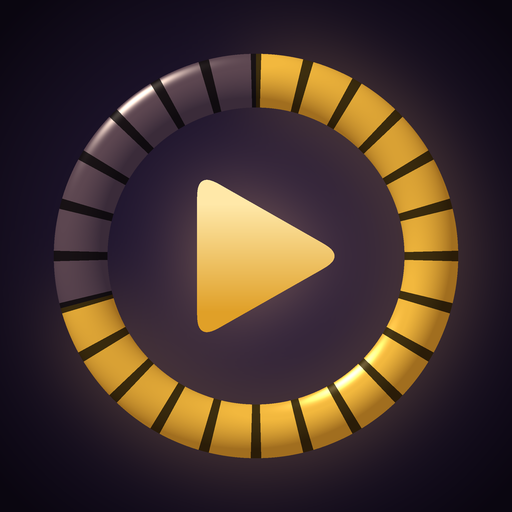
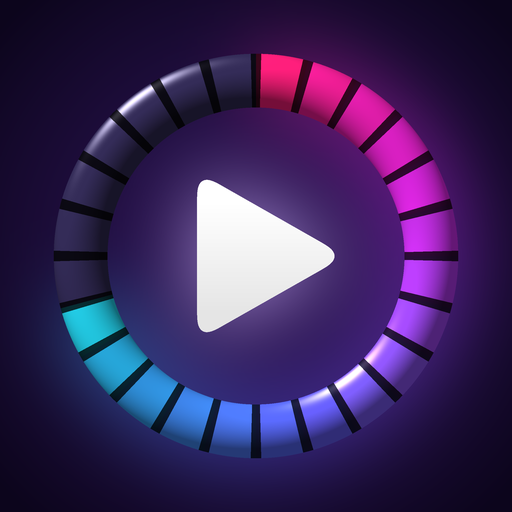
Add files via upload

diff --git a/index.html b/index.html
@@ -8,8 +8,8 @@
 <meta name="apple-mobile-web-app-status-bar-style" content="black-translucent">
 <meta name="apple-mobile-web-app-title" content="Suivi">
 <title>Suivi</title>
[4 lines of base64/hex data omitted]
 <link rel="preconnect" href="https://fonts.googleapis.com">
 <link rel="preconnect" href="https://fonts.gstatic.com" crossorigin>
 <link href="https://fonts.googleapis.com/css2?family=Bricolage+Grotesque:opsz,wght@12..96,600;12..96,800&family=Instrument+Sans:wght@400;500;600&family=IBM+Plex+Mono:wght@400;600&display=swap" rel="stylesheet">
@@ -26,14 +26,21 @@
   --safe-b:env(safe-area-inset-bottom,0px);
   --safe-t:env(safe-area-inset-top,0px);
 }
-*{box-sizing:border-box;margin:0;padding:0;-webkit-tap-highlight-color:transparent}
-html,body{background:var(--nuit);color:var(--ivoire)}
+*{box-sizing:border-box;margin:0;padding:0;-webkit-tap-highlight-color:transparent;min-width:0}
+html,body{
+  background:var(--nuit);color:var(--ivoire);
+  width:100%;max-width:100%;overflow-x:hidden;   /* rien ne dépasse latéralement */
+  overscroll-behavior-x:none;                     /* pas de rebond horizontal */
+  touch-action:manipulation;                      /* coupe le zoom au double-tap, garde le pincement */
+  -webkit-text-size-adjust:100%;                  /* iOS n'agrandit pas le texte tout seul */
+}
 body{
   font-family:"Instrument Sans",system-ui,sans-serif;
   font-size:15px;line-height:1.45;
   padding-bottom:calc(76px + var(--safe-b));
   overscroll-behavior-y:none;
 }
+img,svg{max-width:100%}
 h1,h2,h3{font-family:"Bricolage Grotesque",system-ui,sans-serif;letter-spacing:-.02em;line-height:1.05}
 .mono{font-family:"IBM Plex Mono",monospace}
 button{font:inherit;color:inherit;background:none;border:none;cursor:pointer}
@@ -83,6 +90,9 @@ nav button.on{color:var(--beurre)}
 
 /* ---- cartes Découverte ---- */
 .cartes{display:grid;grid-template-columns:repeat(auto-fill,minmax(104px,1fr));gap:13px}
+.cartes.trois{grid-template-columns:repeat(3,1fr)}
+.tuile .coche{position:absolute;right:6px;bottom:6px;width:29px;height:29px;border-radius:50%;background:var(--beurre);display:grid;place-items:center;box-shadow:0 2px 9px rgba(0,0,0,.55)}
+.tuile .coche svg{width:15px;height:15px;stroke:#2A1D07;fill:none;stroke-width:3.2;stroke-linecap:round;stroke-linejoin:round}
 .tuile{text-align:left;display:flex;flex-direction:column;gap:7px;min-width:0}
 .tuile .aff{position:relative;aspect-ratio:2/3;border-radius:11px;background:var(--nuit-3);background-size:cover;background-position:center;border:1px solid var(--bord);display:grid;place-items:center;font-family:"Bricolage Grotesque";font-weight:800;color:var(--brume);overflow:hidden}
 .tuile .plus{position:absolute;right:6px;bottom:6px;width:28px;height:28px;border-radius:50%;background:var(--beurre);color:#2A1D07;display:grid;place-items:center;font-size:19px;font-family:"Bricolage Grotesque";font-weight:600;box-shadow:0 2px 9px rgba(0,0,0,.5)}
@@ -91,6 +101,14 @@ nav button.on{color:var(--beurre)}
 .tuile .pq{font-family:"IBM Plex Mono",monospace;font-size:10px;color:var(--brume);overflow:hidden;text-overflow:ellipsis;white-space:nowrap}
 .tuile.dedans .aff{opacity:.32}
 .tuile:active .aff{transform:scale(.97)}
+/* ---- accordéon de l'historique ---- */
+.ligne{display:flex;align-items:center;gap:10px;width:100%;padding:13px 14px;text-align:left}
+.ligne.sous{padding:9px 0;border-top:1px solid var(--bord)}
+.chev{stroke:var(--brume);fill:none;stroke-width:2.2;stroke-linecap:round;stroke-linejoin:round;transition:transform .18s ease}
+.chev.on{transform:rotate(90deg);stroke:var(--beurre)}
+@media (prefers-reduced-motion:reduce){.chev{transition:none}}
+.chip{font-size:12.5px;font-weight:600;padding:7px 14px;border-radius:999px;border:1px solid var(--bord);color:var(--brume)}
+.chip.on{background:var(--nuit-3);color:var(--beurre);border-color:var(--beurre)}
 .pill{display:inline-block;font-size:11px;font-weight:600;letter-spacing:.06em;text-transform:uppercase;padding:3px 8px;border-radius:999px;border:1px solid var(--bord);color:var(--brume)}
 .bar{height:3px;background:var(--nuit-3);border-radius:999px;overflow:hidden}
 .bar i{display:block;height:100%;background:var(--beurre);border-radius:999px}
@@ -139,7 +157,10 @@ const CLE = "suivi:v1";
 let D = { series: [], films: [], tmdb: "" };
 let page = "series";
 let histOnglet = "series";
+let histSerieOuv = new Set();   // séries dépliées dans l'historique
+let histSaisonOuv = new Set();  // saisons dépliées, clé "idSerie:n"
 let decOnglet = "sorties";
+let decFiltre = "tout";   // tout | series | films
 let decCache = { sorties:null, pourtoi:null };
 let ouvert = null;
 
@@ -228,16 +249,28 @@ const versTuile = (r,type) => ({
 });
 
 async function sorties(){
-  const [f,s] = await Promise.all([
-    tmdb("/movie/now_playing",{page:"1"}).catch(()=>({results:[]})),
-    tmdb("/tv/on_the_air",{page:"1"}).catch(()=>({results:[]})),
-  ]);
-  const films = (f.results||[]).map(r=>versTuile(r,"films"));
-  const series = (s.results||[]).map(r=>versTuile(r,"series"));
-  // alterner films et séries pour que les deux soient visibles d'emblée
-  const out=[]; const n=Math.max(films.length,series.length);
-  for(let i=0;i<n;i++){ if(series[i]) out.push(series[i]); if(films[i]) out.push(films[i]); }
-  return out.slice(0,24);
+  const paquets = { series:[], films:[] };
+  const deja = new Set();
+  // on pagine jusqu'à avoir de quoi remplir la grille une fois retiré ce qu'elle suit déjà
+  for(let p=1; p<=3; p++){
+    const [f,s] = await Promise.all([
+      tmdb("/movie/now_playing",{page:String(p)}).catch(()=>({results:[]})),
+      tmdb("/tv/on_the_air",{page:String(p)}).catch(()=>({results:[]})),
+    ]);
+    for(const [d,type] of [[s,"series"],[f,"films"]]){
+      for(const r of (d.results||[])){
+        const t = versTuile(r,type);
+        const k = type+":"+t.tmdbId;
+        if(deja.has(k)) continue;
+        deja.add(k);
+        if(dansMaListe(t.tmdbId,type)) continue;   // déjà dans sa liste : la place va à un autre
+        paquets[type].push(t);
+      }
+    }
+    if(paquets.series.length>=26 && paquets.films.length>=26) break;
+    if(!(f.results||[]).length && !(s.results||[]).length) break;
+  }
+  return paquets;
 }
 
 async function pourToi(){
@@ -331,29 +364,61 @@ function vueSeries(){
 function vueFilms(){
   const a = D.films.filter(f=>!f.vuLe);
   if(!a.length) return vide("Aucun film à voir","Ajoute un film avec le bouton +. Une fois vu, il part dans l'historique.");
-  return a.map(f=>`<div class="card" style="margin-bottom:12px;padding:14px">
-    <div class="row" style="align-items:center">
-      <div class="poster" style="${f.poster?`background-image:url(${img(f.poster)})`:""};min-height:88px">${f.poster?"":esc(init(f.titre))}</div>
+  return `<div class="cartes trois">${a.map(f=>`
+    <div class="tuile" data-filmfiche="${f.id}">
+      <div class="aff" style="${f.poster?`background-image:url(${img(f.poster)})`:""}">
+        ${f.poster?"":esc(init(f.titre))}
+        <button class="coche" data-filmvu="${f.id}" aria-label="Marquer ${esc(f.titre)} comme vu">
+          <svg viewBox="0 0 24 24"><path d="M4 12.5 9.5 18 20 6.5"/></svg>
+        </button>
+      </div>
+      <div>
+        <div class="nom">${esc(f.titre)}</div>
+        <div class="pq">${f.annee||"—"}${f.duree?" · "+f.duree+" min":""}</div>
+      </div>
+    </div>`).join("")}</div>`;
+}
+
+function ficheFilm(id){
+  const f = D.films.find(x=>x.id===id); if(!f) return;
+  feuille(`
+    <div class="poignee"></div>
+    <div class="row" style="margin-bottom:20px">
+      <div class="poster wide" style="${f.poster?`background-image:url(${img(f.poster)})`:""};min-height:112px">${f.poster?"":esc(init(f.titre))}</div>
       <div style="flex:1;min-width:0">
-        <div style="font-weight:600;font-size:16.5px">${esc(f.titre)}</div>
-        <div class="mono" style="font-size:12px;color:var(--brume);margin-top:4px">${f.annee||"—"}${f.duree?" · "+f.duree+" min":""}</div>
-        <div style="display:flex;gap:8px;margin-top:11px">
-          <button class="btn" style="padding:7px 14px;font-size:13.5px" data-filmvu="${f.id}">Vu</button>
-          <button class="btn ghost" style="padding:7px 12px;font-size:13.5px" data-filmsup="${f.id}">Retirer</button>
-        </div>
+        <h2 style="font-size:21px">${esc(f.titre)}</h2>
+        <div class="mono" style="font-size:12px;color:var(--brume);margin-top:6px">${f.annee||"—"}${f.duree?" · "+f.duree+" min":""}</div>
       </div>
     </div>
-  </div>`).join("");
+    <button class="btn" style="width:100%" data-filmvu="${f.id}">Marquer comme vu</button>
+    <button class="btn danger" style="width:100%;margin-top:9px" data-filmsup="${f.id}">Retirer de la liste</button>
+  `);
 }
 
 /* ---- page Découverte ---- */
 function vueDecouv(){
   if(!aCle()) return vide("Découverte a besoin d'une clé TMDB","Les sorties et les suggestions viennent de TMDB. Ajoute une clé dans Réglages — c'est gratuit et ça prend cinq minutes.");
-  return `<div style="display:flex;gap:8px;margin-bottom:18px">
+  const chips = [["tout","Tout"],["series","Séries"],["films","Films"]];
+  return `<div style="display:flex;gap:8px;margin-bottom:11px">
     <button class="btn ${decOnglet==="sorties"?"":"ghost"}" style="flex:1;padding:9px" data-dec="sorties">Sorties</button>
     <button class="btn ${decOnglet==="pourtoi"?"":"ghost"}" style="flex:1;padding:9px" data-dec="pourtoi">Pour toi</button>
   </div>
+  <div style="display:flex;gap:7px;margin-bottom:17px">
+    ${chips.map(([id,lab])=>`<button class="chip ${decFiltre===id?"on":""}" data-decf="${id}">${lab}</button>`).join("")}
+  </div>
   <div id="decRes"></div>`;
+}
+
+// le filtre trie ce qui est déjà en cache : changer de filtre ne relance aucun appel
+function filtrer(d, ong){
+  if(ong==="sorties"){
+    if(decFiltre==="series") return d.series.slice(0,24);
+    if(decFiltre==="films")  return d.films.slice(0,24);
+    const out=[], n=Math.max(d.series.length, d.films.length);
+    for(let i=0;i<n;i++){ if(d.series[i]) out.push(d.series[i]); if(d.films[i]) out.push(d.films[i]); }
+    return out.slice(0,24);
+  }
+  return d.items.filter(x=>decFiltre==="tout"||x.type===decFiltre).slice(0,24);
 }
 
 async function chargerDecouv(){
@@ -362,7 +427,7 @@ async function chargerDecouv(){
   if(decCache[ong]){ peindreDecouv(decCache[ong], ong); return; }
   box.innerHTML = '<div style="padding:40px;text-align:center"><span class="spin"></span></div>';
   try{
-    const d = ong==="sorties" ? { items: await sorties() } : await pourToi();
+    const d = ong==="sorties" ? await sorties() : await pourToi();
     decCache[ong] = d;
     if(page==="decouv" && decOnglet===ong) peindreDecouv(d, ong);
   }catch(e){
@@ -375,15 +440,21 @@ function peindreDecouv(d, ong){
   const box = $("#decRes"); if(!box) return;
   if(ong==="pourtoi" && d.vide)
     return box.innerHTML = vide("Rien à suggérer pour l'instant","Les suggestions se construisent à partir de ta liste. Ajoute deux ou trois séries ou films trouvés via la recherche, puis reviens.");
-  if(!d.items.length)
-    return box.innerHTML = vide("Rien trouvé","TMDB n'a rien renvoyé. Réessaie plus tard.");
+
+  const items = filtrer(d, ong);
+  if(!items.length){
+    const quoi = decFiltre==="series" ? "série" : decFiltre==="films" ? "film" : "titre";
+    return box.innerHTML = vide("Aucun "+quoi+" ici",
+      decFiltre==="tout" ? "TMDB n'a rien renvoyé. Réessaie plus tard."
+                         : "Change de filtre, ou reviens plus tard — tout ce qui sortait est peut-être déjà dans ta liste.");
+  }
 
   const intro = ong==="sorties"
-    ? "Films au cinéma et séries diffusées en ce moment."
+    ? "Films au cinéma et séries diffusées en ce moment. Ce que tu suis déjà est écarté."
     : "Construit à partir des titres de ta liste. Ce que tu as déjà commencé ou vu pèse le double.";
 
   box.innerHTML = `<p style="font-size:13px;color:var(--brume);margin-bottom:14px">${intro}</p>
-  <div class="cartes">${d.items.map(x=>{
+  <div class="cartes">${items.map(x=>{
     const dedans = dansMaListe(x.tmdbId, x.type);
     const pq = ong==="pourtoi" && x.raisons?.length
       ? "d'après "+esc(x.raisons[0])+(x.raisons.length>1?" +"+(x.raisons.length-1):"")
@@ -414,31 +485,42 @@ function histSeries(){
   const avec = D.series.filter(s=>nbVus(s)>0);
   if(!avec.length) return vide("Rien de coché pour l'instant","Les épisodes que tu marques comme vus apparaîtront ici, saison par saison.");
   return avec.map(s=>{
-    const blocs = s.saisons.map(sa=>{
-      const vus = sa.episodes.filter(e=>s.vus[cle(sa.n,e.n)]);
-      if(!vus.length) return "";
-      return `<div style="margin-top:14px">
-        <div style="display:flex;align-items:baseline;gap:9px;margin-bottom:8px">
-          <span class="mono" style="font-size:12.5px;color:var(--beurre);font-weight:600">Saison ${sa.n}</span>
-          <span style="flex:1;height:1px;background:var(--bord)"></span>
-          <span class="mono" style="font-size:11px;color:var(--brume)">${vus.length}/${sa.episodes.length}</span>
-        </div>
-        ${vus.map(e=>`<div style="display:flex;gap:10px;padding:5px 0;font-size:13.5px">
-          <span class="mono" style="color:var(--brume);flex:0 0 34px">E${String(e.n).padStart(2,"0")}</span>
-          <span style="flex:1;min-width:0;overflow:hidden;text-overflow:ellipsis;white-space:nowrap">${esc(e.titre||"Épisode "+e.n)}</span>
-          <span class="mono" style="color:var(--brume);font-size:11px;flex:0 0 auto">${dateFr(s.vus[cle(sa.n,e.n)])}</span>
-        </div>`).join("")}
-      </div>`;
-    }).join("");
-    return `<div class="card" style="margin-bottom:14px;padding:16px">
-      <div style="display:flex;align-items:center;gap:10px">
-        <h3 style="font-size:18px;flex:1;min-width:0;overflow:hidden;text-overflow:ellipsis;white-space:nowrap">${esc(s.titre)}</h3>
-        ${fini(s)?'<span class="pill" style="color:var(--beurre);border-color:var(--beurre)">Terminée</span>':""}
-        <button data-detail="${s.id}" class="mono" style="font-size:11.5px;color:var(--brume)">Modifier</button>
-      </div>
-      ${blocs}
+    const dep = histSerieOuv.has(s.id);
+    const saisonsVues = s.saisons.filter(sa=>sa.episodes.some(e=>s.vus[cle(sa.n,e.n)]));
+    return `<div class="card" style="margin-bottom:10px">
+      <button class="ligne" data-hs="${s.id}" aria-expanded="${dep}">
+        ${chev(dep)}
+        <span style="flex:1;min-width:0;text-align:left">
+          <span style="font-weight:600;font-size:16px;display:block;overflow:hidden;text-overflow:ellipsis;white-space:nowrap">${esc(s.titre)}</span>
+          <span class="mono" style="font-size:11px;color:var(--brume)">${nbVus(s)}/${totalEp(s)} épisodes · ${saisonsVues.length} saison${saisonsVues.length>1?"s":""}</span>
+        </span>
+        ${fini(s)?'<span class="pill" style="color:var(--beurre);border-color:var(--beurre);flex:0 0 auto">Terminée</span>':""}
+      </button>
+      ${dep ? `<div style="padding:0 14px 12px">
+        ${saisonsVues.map(sa=>{
+          const k = s.id+":"+sa.n;
+          const so = histSaisonOuv.has(k);
+          const vus = sa.episodes.filter(e=>s.vus[cle(sa.n,e.n)]);
+          return `<button class="ligne sous" data-hsa="${k}" aria-expanded="${so}">
+            ${chev(so, 13)}
+            <span class="mono" style="flex:1;text-align:left;font-size:13px;font-weight:600;color:var(--beurre)">Saison ${sa.n}</span>
+            <span class="mono" style="font-size:11px;color:var(--brume)">${vus.length}/${sa.episodes.length}</span>
+          </button>
+          ${so ? `<div style="padding:2px 0 8px 22px">
+            ${vus.map(e=>`<div style="display:flex;gap:9px;padding:5px 0;font-size:13px;align-items:baseline">
+              <span class="mono" style="color:var(--brume);flex:0 0 30px">E${String(e.n).padStart(2,"0")}</span>
+              <span style="flex:1;min-width:0;overflow:hidden;text-overflow:ellipsis;white-space:nowrap">${esc(e.titre||"Épisode "+e.n)}</span>
+              <span class="mono" style="color:var(--brume);font-size:10.5px;flex:0 0 auto">${dateFr(s.vus[cle(sa.n,e.n)])}</span>
+            </div>`).join("")}
+          </div>` : ""}`;
+        }).join("")}
+        <button class="btn ghost" style="width:100%;margin-top:8px;padding:8px;font-size:13px" data-detail="${s.id}">Modifier les épisodes</button>
+      </div>` : ""}
     </div>`;
   }).join("");
+}
+function chev(ouvert, t=16){
+  return `<svg class="chev ${ouvert?"on":""}" style="width:${t}px;height:${t}px;flex:0 0 ${t}px" viewBox="0 0 24 24"><path d="m9 6 6 6-6 6"/></svg>`;
 }
 function histFilms(){
   const vus = D.films.filter(f=>f.vuLe).sort((a,b)=>b.vuLe.localeCompare(a.vuLe));
@@ -654,7 +736,18 @@ document.addEventListener("click", e=>{
   let b;
   if((b=c("[data-page]"))){ page=b.dataset.page; fermer(); rendre(); window.scrollTo(0,0); return; }
   if((b=c("[data-ong]"))){ histOnglet=b.dataset.ong; rendre(); return; }
+  if((b=c("[data-hs]"))){
+    const id=b.dataset.hs;
+    histSerieOuv.has(id) ? histSerieOuv.delete(id) : histSerieOuv.add(id);
+    rendre(); return;
+  }
+  if((b=c("[data-hsa]"))){
+    const k=b.dataset.hsa;
+    histSaisonOuv.has(k) ? histSaisonOuv.delete(k) : histSaisonOuv.add(k);
+    rendre(); return;
+  }
   if((b=c("[data-dec]"))){ decOnglet=b.dataset.dec; rendre(); return; }
+  if((b=c("[data-decf]"))){ decFiltre=b.dataset.decf; rendre(); return; }
   if(c("[data-decretry]")){ decCache[decOnglet]=null; chargerDecouv(); return; }
   if((b=c("[data-decadd]"))){
     const [type, idStr] = b.dataset.decadd.split(":"); const id = Number(idStr);
@@ -670,7 +763,7 @@ document.addEventListener("click", e=>{
         b.classList.add("dedans"); plus?.remove();
         b.querySelector(".pq").textContent = "déjà dans ta liste";
         toast(type==="series" ? "Série ajoutée" : "Film ajouté");
-        invaliderSuggestions();
+        invaliderSuggestions(); decCache.sorties = null;
       }catch(err){ b.disabled=false; if(plus) plus.textContent="+"; toast(err.message); }
     })();
     return;
@@ -681,9 +774,10 @@ document.addEventListener("click", e=>{
     return;
   }
   if((b=c("[data-detail]"))){ detail(b.dataset.detail); return; }
-  if((b=c("[data-filmvu]"))){ const f=D.films.find(x=>x.id===b.dataset.filmvu); f.vuLe=new Date().toISOString(); sauver(); rendre(); toast("Vu — dans l'historique"); return; }
+  if((b=c("[data-filmvu]"))){ const f=D.films.find(x=>x.id===b.dataset.filmvu); f.vuLe=new Date().toISOString(); sauver(); fermer(); rendre(); toast("Vu — dans l'historique"); return; }
   if((b=c("[data-filmrevu]"))){ const f=D.films.find(x=>x.id===b.dataset.filmrevu); f.vuLe=null; sauver(); rendre(); toast("Remis à voir"); return; }
-  if((b=c("[data-filmsup]"))){ const f=D.films.find(x=>x.id===b.dataset.filmsup); if(confirm("Retirer « "+f.titre+" » ?")){ D.films=D.films.filter(x=>x.id!==f.id); sauver(); invaliderSuggestions(); rendre(); } return; }
+  if((b=c("[data-filmsup]"))){ const f=D.films.find(x=>x.id===b.dataset.filmsup); if(confirm("Retirer « "+f.titre+" » ?")){ D.films=D.films.filter(x=>x.id!==f.id); sauver(); invaliderSuggestions(); fermer(); rendre(); toast("Film retiré"); } return; }
+  if((b=c("[data-filmfiche]"))){ ficheFilm(b.dataset.filmfiche); return; }
   if(c("#fab")){ ajouter(); return; }
 
   if(c("#saveCle")){ D.tmdb=$("#cleTmdb").value.trim(); sauver(); $("#cleEtat").textContent = aCle()?"Clé enregistrée.":"Aucune clé — mode saisie manuelle."; return; }